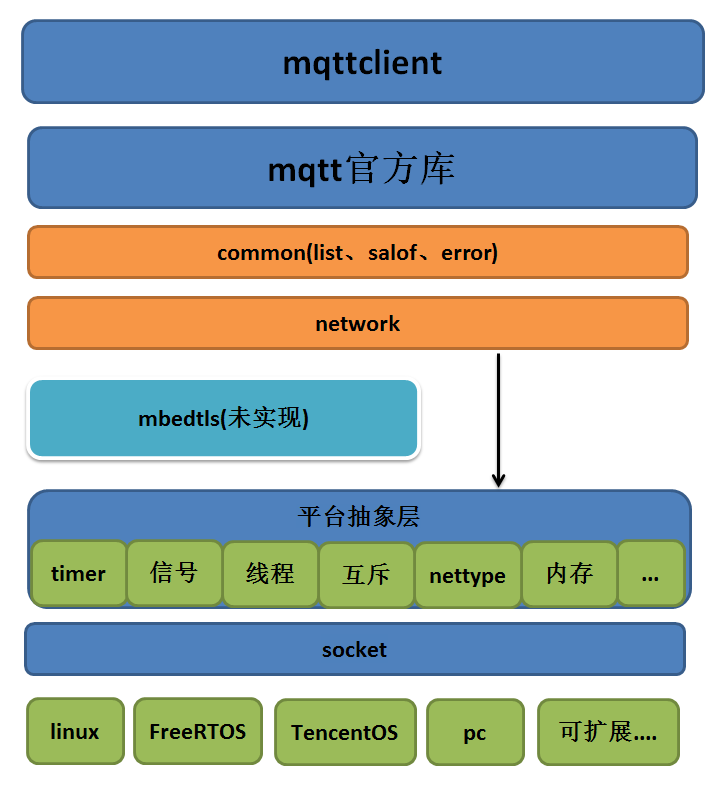
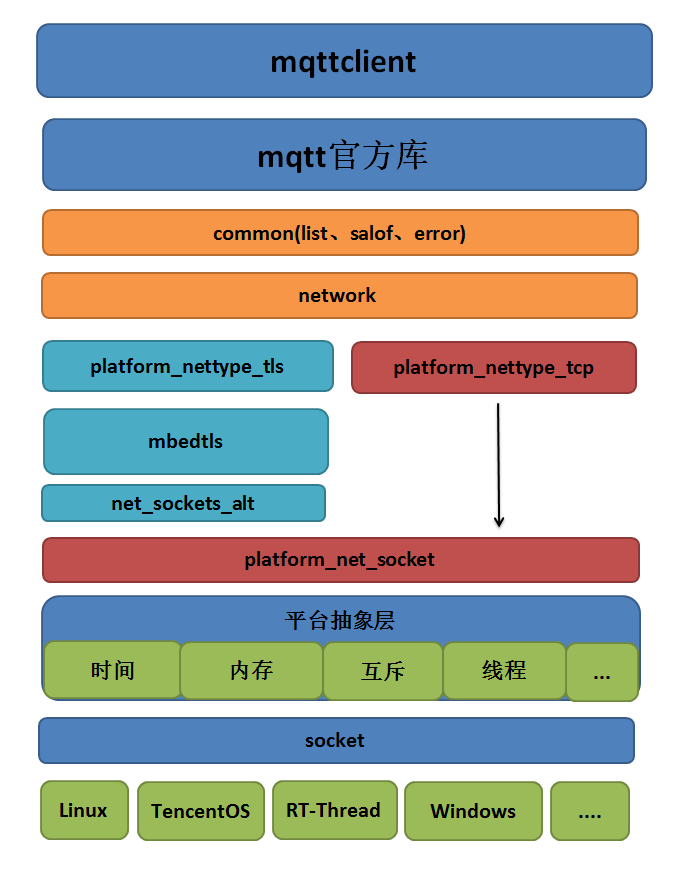
update README.md and mqttclient framework png...

diff --git a/README.md b/README.md
@@ -1,10 +1,55 @@
 # mqttclient
-**A multi-platform mqtt client**
+**一个基于socket API之上的跨平台MQTT客户端**
 
 ## 整体框架
 ![整体框架](https://github.com/jiejieTop/mqttclient/blob/master/png/mqttclient.png?raw=true)
 
-> 备注：目前只实现了linux平台
+> 备注：目前只实现了linux平台，TencentOS tiny与RT-Thread正在移植中
+
+## linux平台下测试使用
+### 配置
+在`mqttclient/test/test.c`文件中修改以下内容：
+```c
+    init_params.connect_params.network_params.network_ssl_params.ca_crt = test_ca_get();    /* CA证书 */
+    init_params.connect_params.network_params.addr = "xxxxxxx";                             /* 服务器域名 */
+    init_params.connect_params.network_params.port = "8883";
+    init_params.connect_params.user_name = "xxxxxxx";                                       /* 用户名 */
+    init_params.connect_params.password = "xxxxxxx";                                        /* 密码 */
+    init_params.connect_params.client_id = "xxxxxxx";                                       /* 客户端id */
+```
+
+### 打开salof
+`salof`全称是：`Synchronous Asynchronous Log Output Framework`（同步异步日志输出框架）
+![salof](https://github.com/jiejieTop/salof/blob/master/png/framework.jpg)
+它是一个异步日志输出库，在空闲时候输出对应的日志信息，并且该库与mqttclient无缝衔接，如果不需要则将 `LOG_IS_SALOF` 定义为0即可。
+```c
+#define LOG_IS_SALOF    0
+```
+在`mqttclient/common/log/config.h`配置文件中打开对应的日志输出级别：
+```c
+#define BASE_LEVEL      (0)
+#define ASSERT_LEVEL    (BASE_LEVEL + 1)            /* 日志输出级别：断言级别（非常高优先级） */
+#define ERR_LEVEL       (ASSERT_LEVEL + 1)          /* 日志输出级别：错误级别（高优先级） */
+#define WARN_LEVEL      (ERR_LEVEL + 1)             /* 日志输出级别：警告级别（中优先级） */
+#define INFO_LEVEL      (WARN_LEVEL + 1)            /* 日志输出级别：信息级别（低优先级） */
+#define DEBUG_LEVEL     (INFO_LEVEL + 1)            /* 日志输出级别：调试级别（更低优先级） */
+
+#define         SALOF_OS                    USE_LINUX       /* 选择对应的平台：Linux/FreeRTOS/TencentOS */
+#define         LOG_LEVEL                   WARN_LEVEL      /* 日志输出级别 */
+```
+
+### mqttclient的配置
+配置文件是：`mqttclient/mqtt_config.h`，在这里可以根据自身需求配置对应的信息。
+如是否选择`mbedtls`加密层：
+```c
+#define     MQTT_NETWORK_TYPE_TLS               MQTT_YES
+```
+
+### 编译 & 运行
+```bash
+./build.sh
+```
+运行`build.sh`脚本后会在 `./build/bin/`目录下生成可执行文件`mqtt-client`，直接运行即可。
 
 ## 设计思想
 - 整体采用分层式设计，代码实现采用异步设计方式，降低耦合。
@@ -305,4 +350,5 @@ mqtt_publish_ack_packet(c, packet_id, packet_type);
 mqtt_ack_list_unrecord(c, UNSUBACK, packet_id, &msg_handler)
 ```
 
+## 在后台测试
 nohup ./mqtt-client > log.out 2>&1 &
